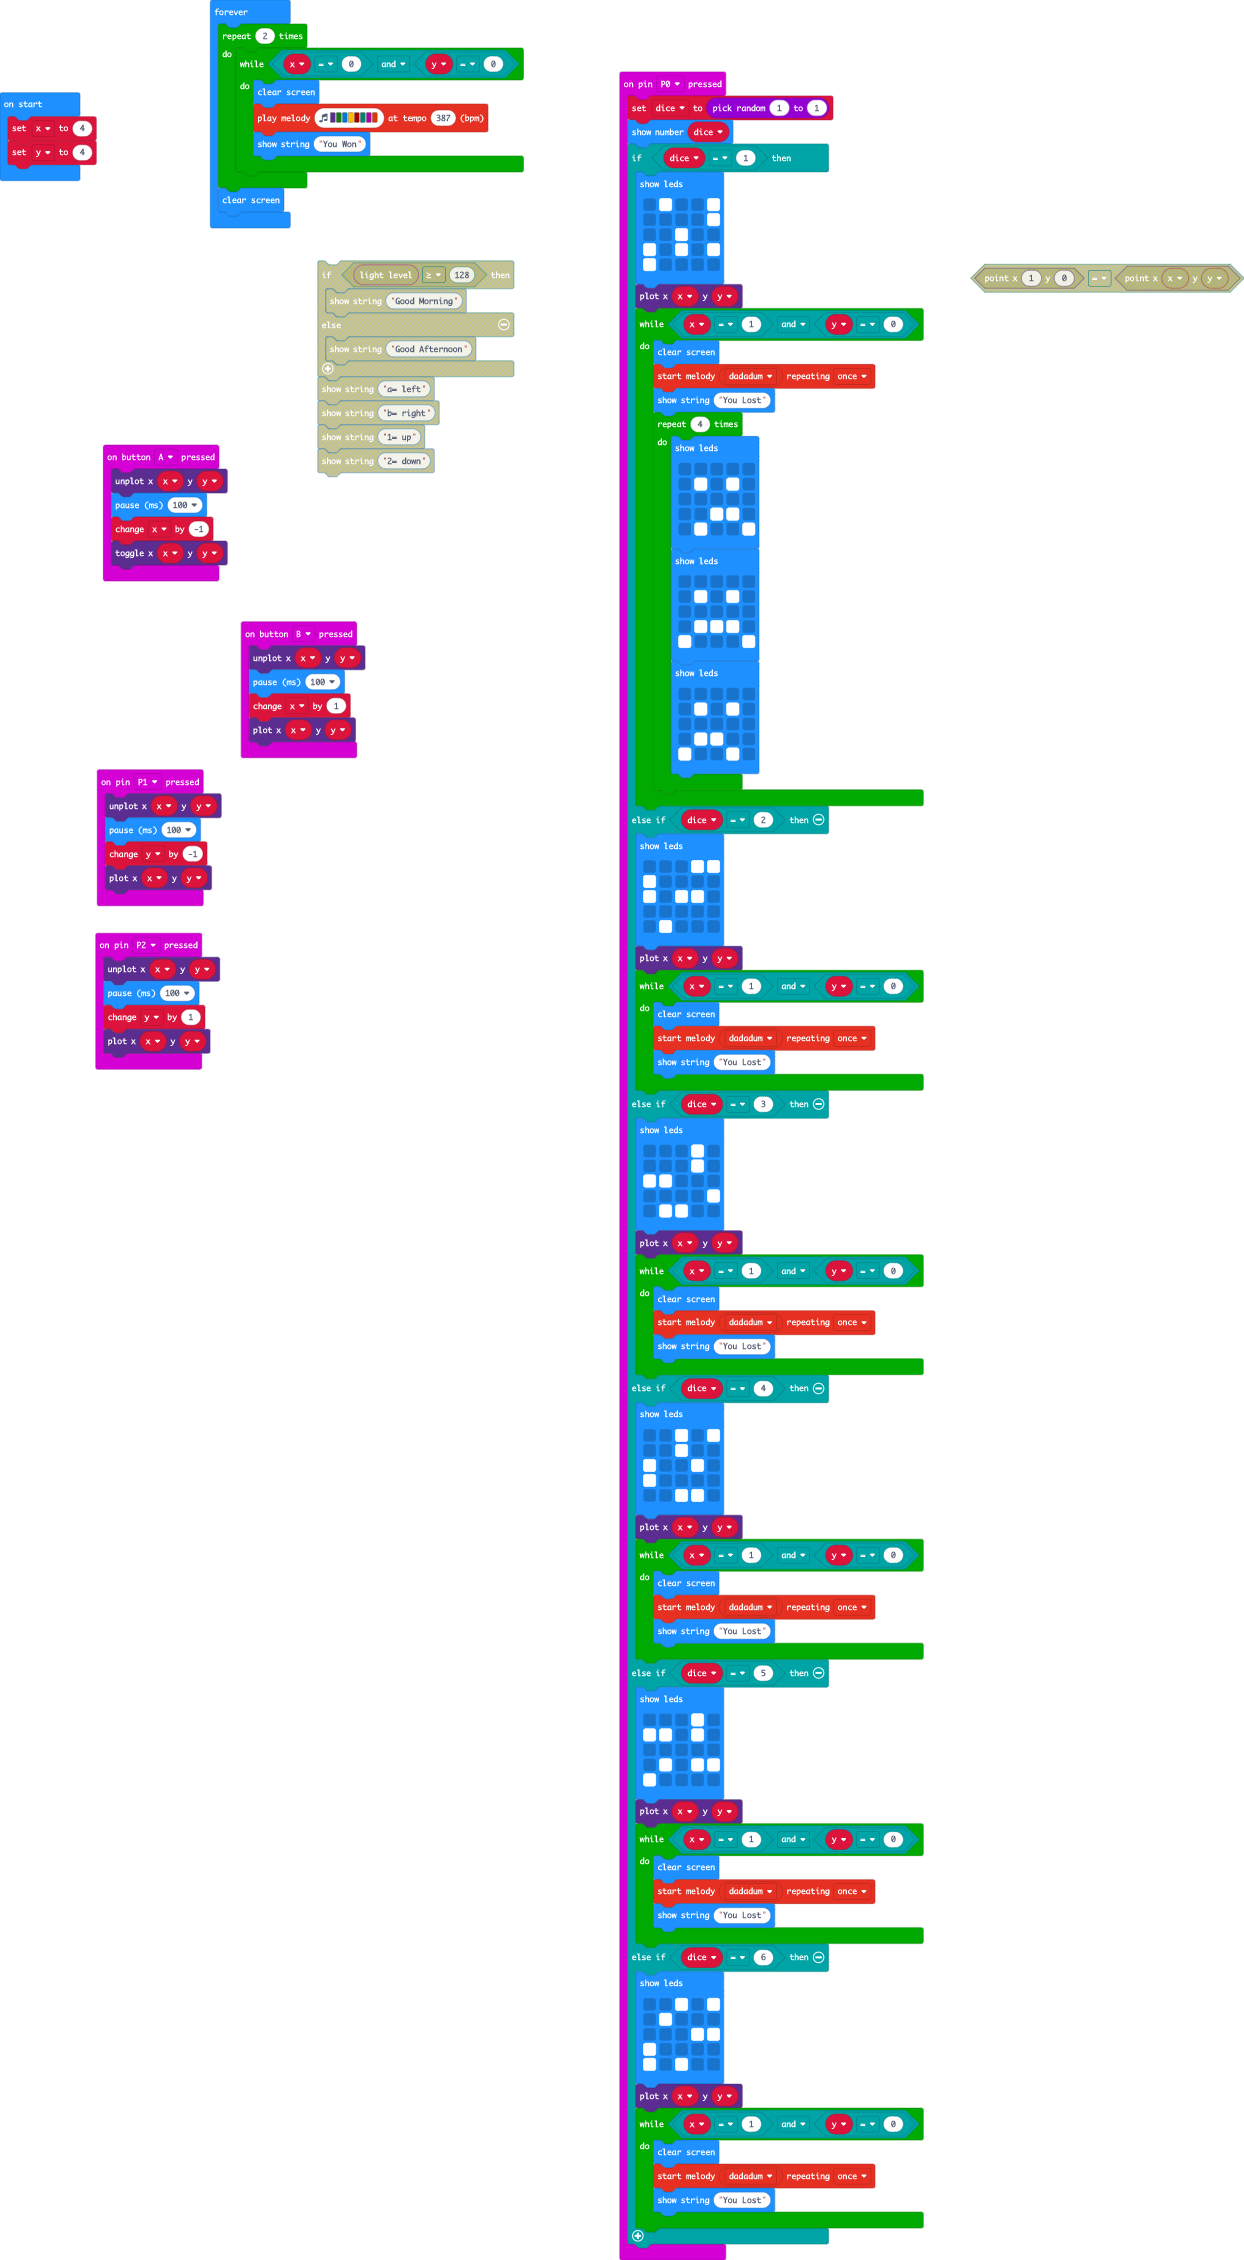
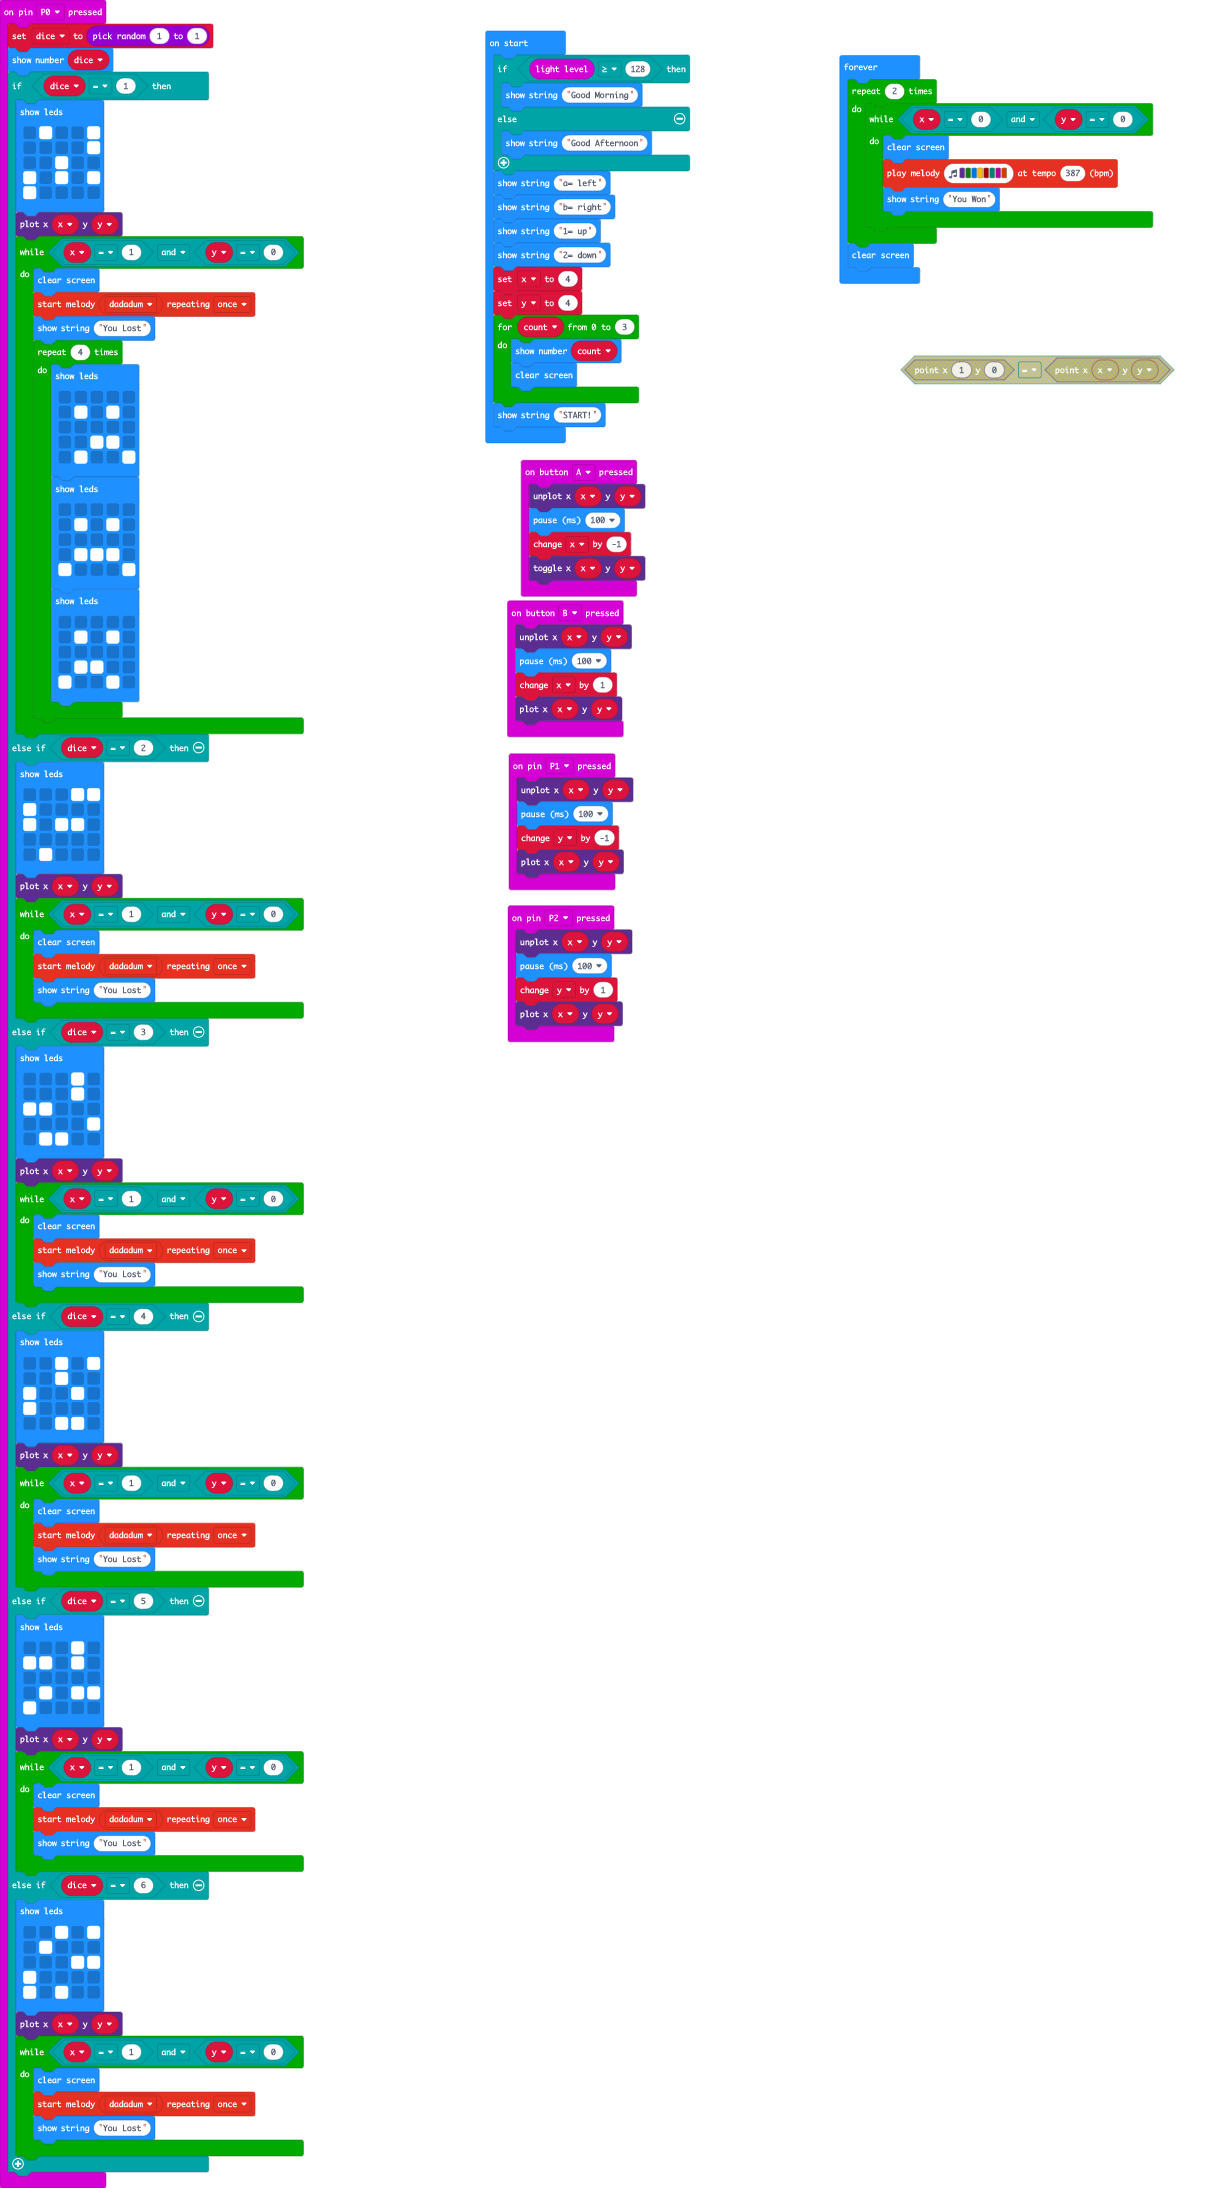
Update main.blocks, main.ts

diff --git a/main.ts b/main.ts
@@ -137,8 +137,22 @@ input.onPinPressed(TouchPin.P1, function () {
 let dice = 0
 let y = 0
 let x = 0
+if (input.lightLevel() >= 128) {
+    basic.showString("Good Morning")
+} else {
+    basic.showString("Good Afternoon")
+}
+basic.showString("a= left")
+basic.showString("b= right")
+basic.showString("1= up")
+basic.showString("2= down")
 x = 4
 y = 4
+for (let count = 0; count <= 3; count++) {
+    basic.showNumber(count)
+    basic.clearScreen()
+}
+basic.showString("START!")
 basic.forever(function () {
     for (let index = 0; index < 2; index++) {
         while (x == 0 && y == 0) {
